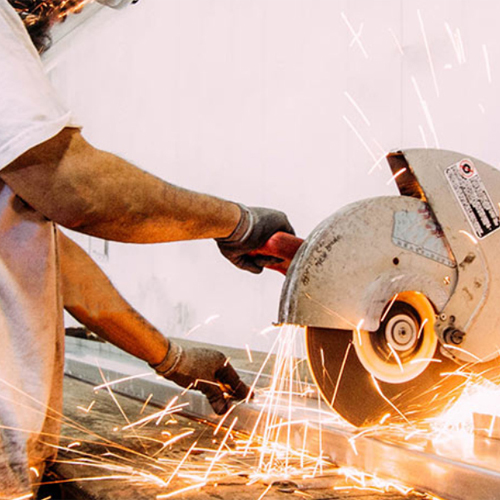
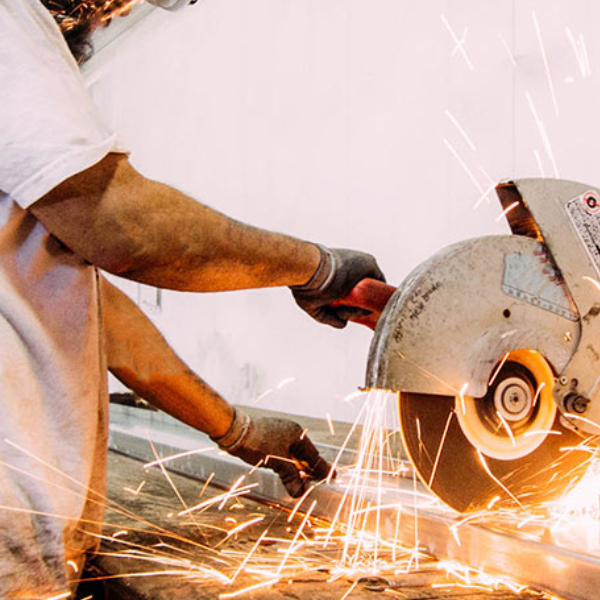
모바일 베너 사이즈 600px로 변경

diff --git a/src/components/Main.css b/src/components/Main.css
@@ -382,6 +382,8 @@ form {
 .carouselContainerMobile {
   display: none;
   max-width: 100vw;
+  padding: 0px;
+  margin: 0px;
 }
 
 /* 여기까지 mainbanner*/
